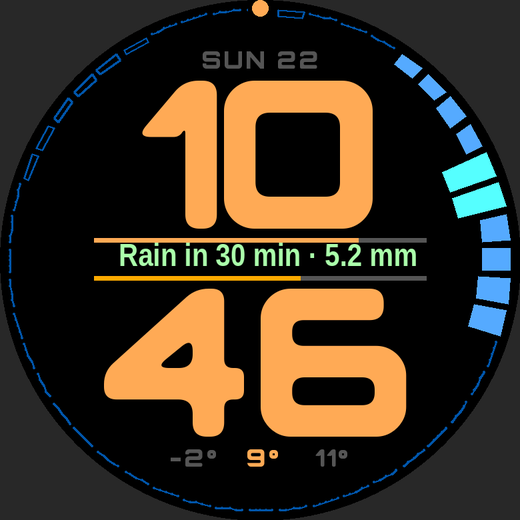
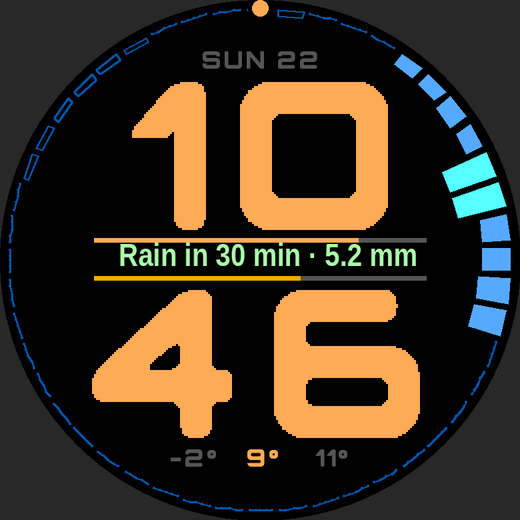
Draw the big clock from images: Pebble fonts can't hold glyphs this large
The SDK's font generator stops with "Glyph too large! ... 685 > 512" at 103 px.
The digits are now 1-bit images (transparent background, ink recoloured to the
theme at draw time), rendered from the same font by tools/font/make_digit_images.py.

Claude-Session: https://claude.ai/code/session_015HmYPjfyQ65s3v6ZviQxa9

diff --git a/tools/font/make_digit_images.py b/tools/font/make_digit_images.py
@@ -1,0 +1,42 @@
+"""Renders the clock digits 0-9 as 1-bit images for the watch.
+
+Pebble fonts can't hold glyphs this large (the SDK stops at about 88 px), so the
+big clock is drawn from images instead. Each image is cropped to the digit's
+ink, all with the same height (the digit height), with a transparent
+background and one ink colour that the watch swaps for the theme colour.
+
+    python3 tools/font/make_digit_images.py
+
+Writes resources/images/digits/<platform>/0.png ... 9.png and sizes.txt.
+"""
+import os
+from PIL import Image, ImageDraw, ImageFont
+
+HERE = os.path.dirname(os.path.abspath(__file__))
+ROOT = os.path.join(HERE, "..", "..")
+FONT = os.path.join(ROOT, "resources", "fonts", "ContourDigits-Black.ttf")
+SIZES = {"gabbro": 103, "emery": 108}  # px, as large as each screen allows
+
+for platform, size in SIZES.items():
+    font = ImageFont.truetype(FONT, size)
+    # Common vertical box: top of the tallest digit to the baseline.
+    top = min(font.getbbox(d)[1] for d in "0123456789")
+    bottom = max(font.getbbox(d)[3] for d in "0123456789")
+    out = os.path.join(ROOT, "resources", "images", "digits", platform)
+    os.makedirs(out, exist_ok=True)
+    lines = []
+    for d in "0123456789":
+        x0, _, x1, _ = font.getbbox(d)
+        w, h = x1 - x0, bottom - top
+        img = Image.new("L", (w, h), 0)
+        ImageDraw.Draw(img).text((-x0, -top), d, font=font, fill=255)
+        bw = img.point(lambda v: 1 if v >= 128 else 0)
+        pal = Image.new("P", (w, h), 0)
+        pal.putpalette([0, 0, 0, 255, 255, 255] + [0, 0, 0] * 254)
+        pal.paste(bw, (0, 0))
+        pal.info["transparency"] = 0          # index 0 is see-through
+        pal.save(os.path.join(out, d + ".png"), transparency=0, bits=1, optimize=True)
+        lines.append("%d %d" % (w, h))
+    with open(os.path.join(out, "sizes.txt"), "w") as f:
+        f.write("\n".join(lines) + "\n")
+    print(platform, size, "px: digit height", bottom - top, "widths", [l.split()[0] for l in lines])

diff --git a/tools/preview/app_decls.h b/tools/preview/app_decls.h
@@ -39,7 +39,7 @@ void app_message_register_inbox_received(void (*)(DictionaryIterator*, void*)); 
 void app_event_loop(void);
 typedef struct GBitmap GBitmap;
 typedef enum { GBitmapFormat8Bit } GBitmapFormat;
-typedef enum { GCompOpAssign } GCompOp;
+typedef enum { GCompOpAssign, GCompOpSet } GCompOp;
 typedef struct { uint8_t *data; int16_t min_x, max_x; } GBitmapDataRowInfo;
 GBitmap *gbitmap_create_blank(GSize, GBitmapFormat); void gbitmap_destroy(GBitmap*);
 uint8_t *gbitmap_get_data(const GBitmap*); uint16_t gbitmap_get_bytes_per_row(const GBitmap*);
@@ -47,7 +47,11 @@ GBitmapDataRowInfo gbitmap_get_data_row_info(const GBitmap*, uint16_t);
 GBitmap *graphics_capture_frame_buffer(GContext*); bool graphics_release_frame_buffer(GContext*, GBitmap*);
 void graphics_context_set_compositing_mode(GContext*, GCompOp);
 void graphics_draw_rotated_bitmap(GContext*, GBitmap*, GPoint, int32_t, GPoint);
-enum { RESOURCE_ID_FONT_CLOCK_103 = 1, RESOURCE_ID_FONT_CLOCK_108 = 2, RESOURCE_ID_FONT_SMALL_12 = 3 };
+enum { RESOURCE_ID_FONT_SMALL_12 = 3, RESOURCE_ID_DIGIT_0 = 10, RESOURCE_ID_DIGIT_1, RESOURCE_ID_DIGIT_2, RESOURCE_ID_DIGIT_3, RESOURCE_ID_DIGIT_4, RESOURCE_ID_DIGIT_5, RESOURCE_ID_DIGIT_6, RESOURCE_ID_DIGIT_7, RESOURCE_ID_DIGIT_8, RESOURCE_ID_DIGIT_9 };
+GBitmap *gbitmap_create_with_resource(uint32_t); GRect gbitmap_get_bounds(const GBitmap *); GColor *gbitmap_get_palette(const GBitmap *); void graphics_draw_bitmap_in_rect(GContext *, const GBitmap *, GRect);
+#ifndef GColorClear
+#define GColorClear ((GColor){0x00})
+#endif
 ResHandle resource_get_handle(uint32_t); GFont fonts_load_custom_font(ResHandle); void fonts_unload_custom_font(GFont);
 #define SECONDS_PER_DAY 86400
 typedef struct { const uint32_t *durations; uint32_t num_segments; } VibePattern; void vibes_enqueue_custom_pattern(VibePattern);

diff --git a/src/c/draw.c b/src/c/draw.c
@@ -357,12 +357,12 @@ void draw_face(Layer *layer, GContext *ctx) {
   // middle line, hours above it and minutes below it as large as the screen
   // allows (the rounded digit corners reach into the rain chart), then the date on top and the extra line at
   // the bottom in small capitals of the same blocky font.
-  // CAP is the digit height; PAD is the space the font leaves above the digits
-  // inside its text box (both measured from the font at that size).
+  // CAP is the digit height (the height of the digit images), GAP the space
+  // between two digits.
 #ifdef PBL_ROUND
-  const int CAP = 74, PAD = 31, BOX = 112, MAX_W = 192, BAR_W = 166;
+  const int CAP = 74, GAP = 11, MAX_W = 192, BAR_W = 166;
 #else
-  const int CAP = 78, PAD = 32, BOX = 116, MAX_W = 160, BAR_W = 174;
+  const int CAP = 78, GAP = 12, MAX_W = 160, BAR_W = 174;
 #endif
   const int HALF = 15;                 // centre line to the digits
   const int SMALL_CAP = 9, SMALL_PAD = 4, SMALL_GAP = 6;
@@ -375,8 +375,8 @@ void draw_face(Layer *layer, GContext *ctx) {
   upper_utf8(corner);
   draw_text_font(ctx, date, g_small_font,
                  GRect(cx - 70, hh_top - SMALL_GAP - SMALL_CAP - SMALL_PAD, 140, 18), th.dim);
-  draw_text_font(ctx, hh, g_time_font, GRect(b.origin.x, hh_top - PAD, b.size.w, BOX), th.fg);
-  draw_text_font(ctx, mm, g_time_font, GRect(b.origin.x, mm_top - PAD, b.size.w, BOX), th.fg);
+  digits_draw(ctx, hh, cx, hh_top, GAP, th.fg);
+  digits_draw(ctx, mm, cx, mm_top, GAP, th.fg);
   const int corner_y = mm_top + CAP + SMALL_GAP - SMALL_PAD;
   if (g_set.corner == CORNER_TEMP) {
     // Today's low, now and high: the current temperature bright in the middle.

diff --git a/src/c/digits.c b/src/c/digits.c
@@ -1,0 +1,48 @@
+#include "contour.h"
+
+static GBitmap *s_digits[10];
+
+static const uint32_t DIGIT_IDS[10] = {
+  RESOURCE_ID_DIGIT_0, RESOURCE_ID_DIGIT_1, RESOURCE_ID_DIGIT_2, RESOURCE_ID_DIGIT_3,
+  RESOURCE_ID_DIGIT_4, RESOURCE_ID_DIGIT_5, RESOURCE_ID_DIGIT_6, RESOURCE_ID_DIGIT_7,
+  RESOURCE_ID_DIGIT_8, RESOURCE_ID_DIGIT_9,
+};
+
+void digits_load(void) {
+  for (int i = 0; i < 10; i++) s_digits[i] = gbitmap_create_with_resource(DIGIT_IDS[i]);
+}
+
+void digits_unload(void) {
+  for (int i = 0; i < 10; i++) {
+    if (s_digits[i]) gbitmap_destroy(s_digits[i]);
+    s_digits[i] = NULL;
+  }
+}
+
+void digits_draw(GContext *ctx, const char *s, int cx, int top, int gap, GColor color) {
+  int total = 0, n = 0;
+  for (const char *p = s; *p; p++) {
+    if (*p < '0' || *p > '9' || !s_digits[*p - '0']) continue;
+    total += gbitmap_get_bounds(s_digits[*p - '0']).size.w;
+    n++;
+  }
+  if (!n) return;
+  total += gap * (n - 1);
+
+  graphics_context_set_compositing_mode(ctx, GCompOpSet);
+  int x = cx - total / 2;
+  for (const char *p = s; *p; p++) {
+    if (*p < '0' || *p > '9' || !s_digits[*p - '0']) continue;
+    GBitmap *bmp = s_digits[*p - '0'];
+    // Two-colour image: index 0 is see-through, index 1 takes the clock colour.
+    GColor *pal = gbitmap_get_palette(bmp);
+    if (pal) {
+      pal[0] = GColorClear;
+      pal[1] = color;
+    }
+    GSize sz = gbitmap_get_bounds(bmp).size;
+    graphics_draw_bitmap_in_rect(ctx, bmp, GRect(x, top, sz.w, sz.h));
+    x += sz.w + gap;
+  }
+  graphics_context_set_compositing_mode(ctx, GCompOpAssign);
+}

diff --git a/tools/preview/render.py b/tools/preview/render.py
@@ -90,6 +90,17 @@ def render(log, w, h, round_, out):
             _, deg, a = c
             img = img.rotate(-deg, resample=Image.NEAREST, center=(w * S / 2, h * S / 2), fillcolor=col(a))
             d = ImageDraw.Draw(img)
+        elif k == "digits":
+            _, s, cx, top, gap, a = c
+            plat = "gabbro" if round_ else "emery"
+            ims = [Image.open(os.path.join(HERE, "../../resources/images/digits", plat, ch + ".png")).convert("L") for ch in s]
+            total = sum(i.width for i in ims) + gap * (len(ims) - 1)
+            x = cx - total // 2
+            for im in ims:
+                mask = im.point(lambda v: 255 if v else 0).resize((im.width * S, im.height * S), Image.NEAREST)
+                img.paste(Image.new("RGB", mask.size, col(a)), (x * S, top * S), mask)
+                x += im.width + gap
+            d = ImageDraw.Draw(img)
         elif k == "text" and (c[2].startswith("clock") or c[2].startswith("small")):
             _, s, f, x, y, bw, bh, a = c[:8]
             size = int(f[5:])

diff --git a/src/c/main.c b/src/c/main.c
@@ -3,7 +3,6 @@
 Settings g_set;
 Weather g_wx;
 ViewState g_view;
-GFont g_time_font;
 GFont g_small_font;
 
 static Window *s_window;
@@ -370,11 +369,7 @@ static void canvas_update(Layer *layer, GContext *ctx) {
 }
 
 static void window_load(Window *window) {
-#ifdef PBL_ROUND
-  g_time_font = fonts_load_custom_font(resource_get_handle(RESOURCE_ID_FONT_CLOCK_103));
-#else
-  g_time_font = fonts_load_custom_font(resource_get_handle(RESOURCE_ID_FONT_CLOCK_108));
-#endif
+  digits_load();
   g_small_font = fonts_load_custom_font(resource_get_handle(RESOURCE_ID_FONT_SMALL_12));
   Layer *root = window_get_root_layer(window);
   s_canvas = layer_create(layer_get_bounds(root));
@@ -387,7 +382,7 @@ static void window_unload(Window *window) {
   tilt_release();
   layer_destroy(s_canvas);
   s_canvas = NULL;
-  fonts_unload_custom_font(g_time_font);
+  digits_unload();
   fonts_unload_custom_font(g_small_font);
 }
 

diff --git a/src/c/contour.h b/src/c/contour.h
@@ -96,7 +96,6 @@ typedef struct {
 extern Settings g_set;
 extern Weather g_wx;
 extern ViewState g_view;
-extern GFont g_time_font;   // big blocky digits for the stacked clock
 extern GFont g_small_font;  // same style, small capitals for date and labels
 
 // weather.c
@@ -116,6 +115,12 @@ void text_corner(char *buf, size_t n);
 void text_scrub(char *line1, size_t n1, char *line2, size_t n2, time_t t);
 void fmt_temp(char *buf, size_t n, int16_t tenths);
 void fmt_rain_short(char *buf, size_t n, int tenths_mm);
+
+// digits.c: the big clock digits, drawn from images (fonts can't be this big).
+void digits_load(void);
+void digits_unload(void);
+// Draws `s` (digits only) centred on cx with its top at `top`, `gap` px apart.
+void digits_draw(GContext *ctx, const char *s, int cx, int top, int gap, GColor color);
 
 // draw.c
 void draw_face(Layer *layer, GContext *ctx);

diff --git a/tools/preview/stub.c b/tools/preview/stub.c
@@ -3,11 +3,6 @@
 #include "../../src/c/contour.h"
 
 Settings g_set; Weather g_wx; ViewState g_view;
-#ifdef PBL_ROUND
-GFont g_time_font = "clock103";
-#else
-GFont g_time_font = "clock108";
-#endif
 GFont g_small_font = "small12";
 static int W, H;
 struct Layer { int dummy; };
@@ -105,4 +100,10 @@ void gpath_draw_outline(GContext *c, GPath *p) {
   printf("[\"polyline\",%d,[", c->stroke.argb);
   for (uint32_t i = 0; i < p->info.num_points; i++) printf("%s%d,%d", i ? "," : "", p->info.points[i].x, p->info.points[i].y);
   printf("]]\n");
+}
+
+// The big digits are images on the watch; here they are logged and drawn by render.py.
+void digits_draw(GContext *c, const char *s, int cx, int top, int gap, GColor color) {
+  (void)c;
+  printf("[\"digits\","); jstr(s); printf(",%d,%d,%d,%d]\n", cx, top, gap, color.argb);
 }

diff --git a/README.md b/README.md
@@ -34,7 +34,7 @@ fonts, so the lettering differs a little from the watch._
 - **Rain amounts**: when rain is coming, the smart line adds the heaviest
   hour of the spell, like `Rain in 45 min · 2.8 mm`.
 - **Battery line and step bar**: a thin line just above the middle text shows the watch battery: plain (red at 20% or less) or colourful (green, orange below 30%, red below 10%), and a bar just below it fills towards your step goal (a fixed goal or your usual day from Pebble Health). Both can be turned off.
-- **Clock**: big bold stacked hours over minutes in a wide, square "techno" style (Contour Digits, a modified Orbitron Black), as large as the screen allows (the digit corners reach into the rain chart). The date and the extra line use small capitals of the same font, with the
+- **Clock**: big bold stacked hours over minutes in a wide, square "techno" style (Contour Digits, a modified Orbitron Black, drawn from images in resources/images/digits because Pebble fonts stop at about 88 px; rebuild them with tools/font/make_digit_images.py), as large as the screen allows (the digit corners reach into the rain chart). The date and the extra line use small capitals of the same font, with the
   date small above. Between them is a thin info row with the temperature and
   the smart line, and a bottom line (by default today's low, the temperature now in bright and today's high; or battery, steps or heart rate)
   sits below.
